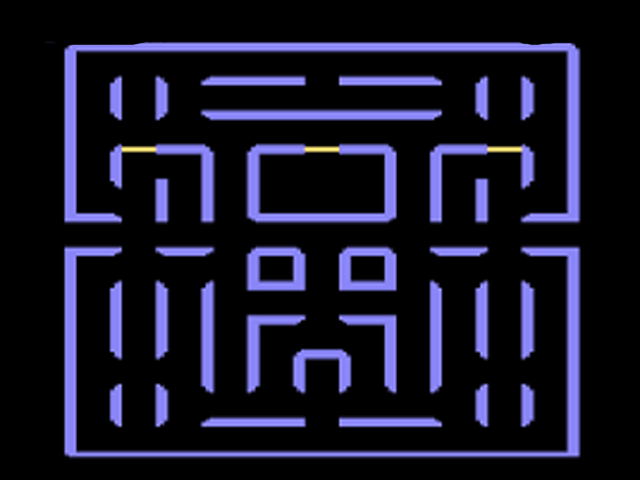
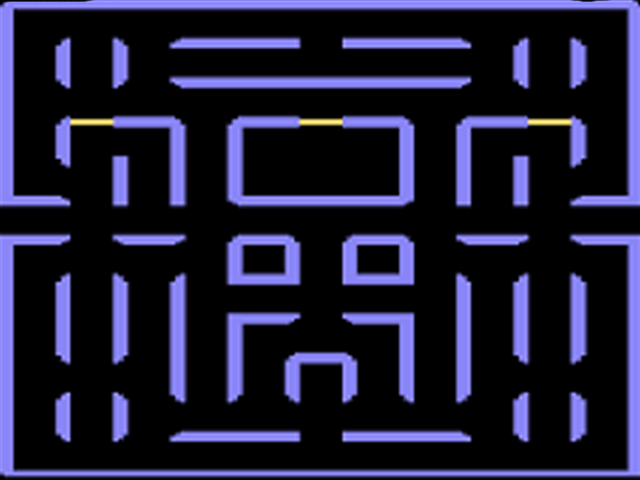
Wall Collision working

diff --git a/player.rb b/player.rb
@@ -2,18 +2,22 @@ require "gosu"
 require_relative 'zorder'
 
 
-COLLISION_DISTANCE = 20.0
+
+COLLISION_DISTANCE = 10.0
 
 class Player
 
 	attr_reader :score
 
-	ACCELERATION = 0.3
+	ACCELERATION = 0.05
 	
 
 	def initialize
 		@x = @y = @vel_x = @vel_y = @angle = 0.0
 		@score = 0
+		@width = 640
+		@height = 480
+		@direction = 0
 		@image = Gosu::Image.new("Images/Pacman.png")
 		# @waka = Gosu::Sample.new(".wav")
 		# @over = Gosu::Sample.new(".wav")
@@ -27,22 +31,26 @@ class Player
 
 	def move_left
 		@angle = 180
-		@vel_x -= 0.5
+		@vel_x -= 0.1
+		@direction = 4
 	end
 
 	def move_right
 		@angle = 0
-		@vel_x += 0.5
+		@vel_x += 0.1
+		@direction = 3
 	end
 
 	def move_up
 		@angle = 270
-		@vel_y -= 0.5
+		@vel_y -= 0.1
+		@direction = 1
 	end
 
 	def move_down
 		@angle = 90
-		@vel_y += 0.5
+		@vel_y += 0.1
+		@direction = 2
 	end
 
 	def move
@@ -54,6 +62,22 @@ class Player
 
 		@vel_x *= 0.95
 		@vel_y *= 0.95
+		if @x > @width - 10
+			@vel_x = -1 * @vel_x
+			@x = @width - 10
+		end
+		if @y > @height - 10
+			@vel_y = -1 * @vel_y
+			@y = @height - 10
+		end
+		if @x <= 5
+			@vel_x = -1 * @vel_x
+			@x = 5
+		end		
+		if @y <= 5
+			@vel_y = -1 * @vel_y
+			@y = 5
+		end	
 	end
 
 	def draw

diff --git a/main.rb b/main.rb
@@ -3,6 +3,7 @@ require_relative 'player'
 require_relative 'zorder'
 require_relative 'orbs'
 
+
 class GameWindow < Gosu::Window
 
 	def initialize
@@ -10,8 +11,7 @@ class GameWindow < Gosu::Window
 		self.caption = "Gosu Tutorial Game"
 		@stages = []
 		@stages[0] = Gosu::Image.new("Images/Stage-1.png", :tileable => true)
-		@stages[1] = Gosu::Image.new("Images/Stage-2.png", :tileable => true)
-		@stages[2] = Gosu::Image.new("Images/Stage-3.png", :tileable => true)
+		@stages[1] = Gosu::Image.new("Images/Stage-3.png", :tileable => true)
 		@background_image = @stages[rand(0..@stages.length - 1)]
 		@player = Player.new
 		@player.warp(width/2.0, height/2.0)
@@ -30,7 +30,7 @@ class GameWindow < Gosu::Window
 		@player.move
 		@player.collect_orbs(@orbs)
 
-		if rand(100) < 6 && @orbs.size < 25
+		if rand(100) < 6 && @orbs.size < 10
 			@orbs.push(Orb.new(@orb_anim))
 		end
 		@orbs.each do |orb|
@@ -48,7 +48,6 @@ class GameWindow < Gosu::Window
 	def button_down(id)
 		close if id == Gosu::KbEscape
 	end
-
 end
 
 window = GameWindow.new

diff --git a/orbs.rb b/orbs.rb
@@ -8,8 +8,8 @@ class Orb
 		@animation = animation
 		@color = Gosu::Color.new(0xff_ffffff)
 
-		@x = 320
-		@y = 240
+		@x = rand * 640
+		@y = rand * 480
 		@collected = 0
 	end
 
@@ -21,9 +21,7 @@ class Orb
 			ZOrder::ORBS,
 			1, 1, @color, :add)
 	end
-	def update
 		def collected?
 			@collected
 		end
-	end
 end
